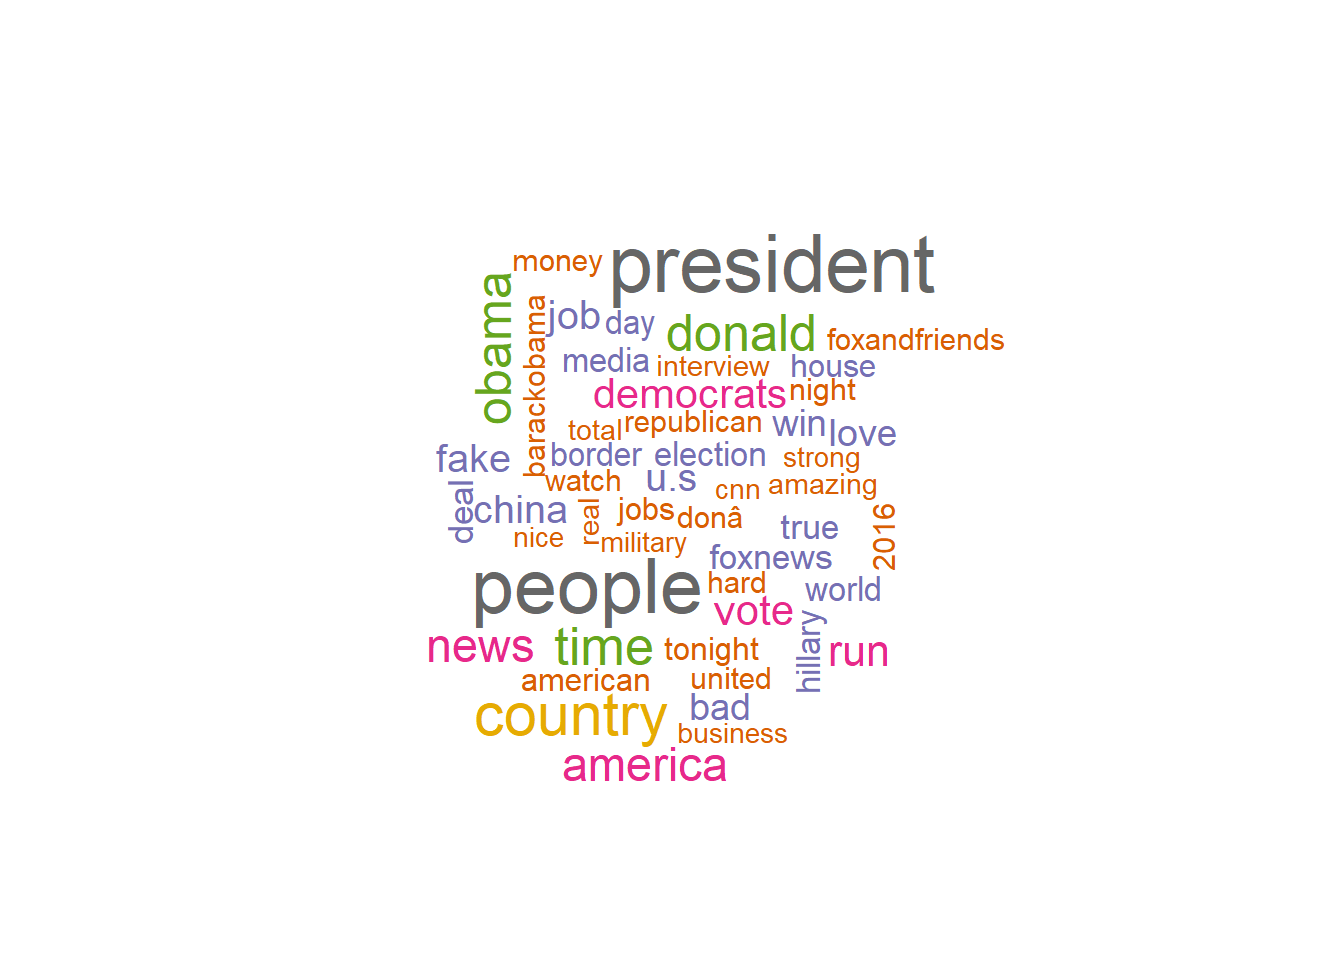
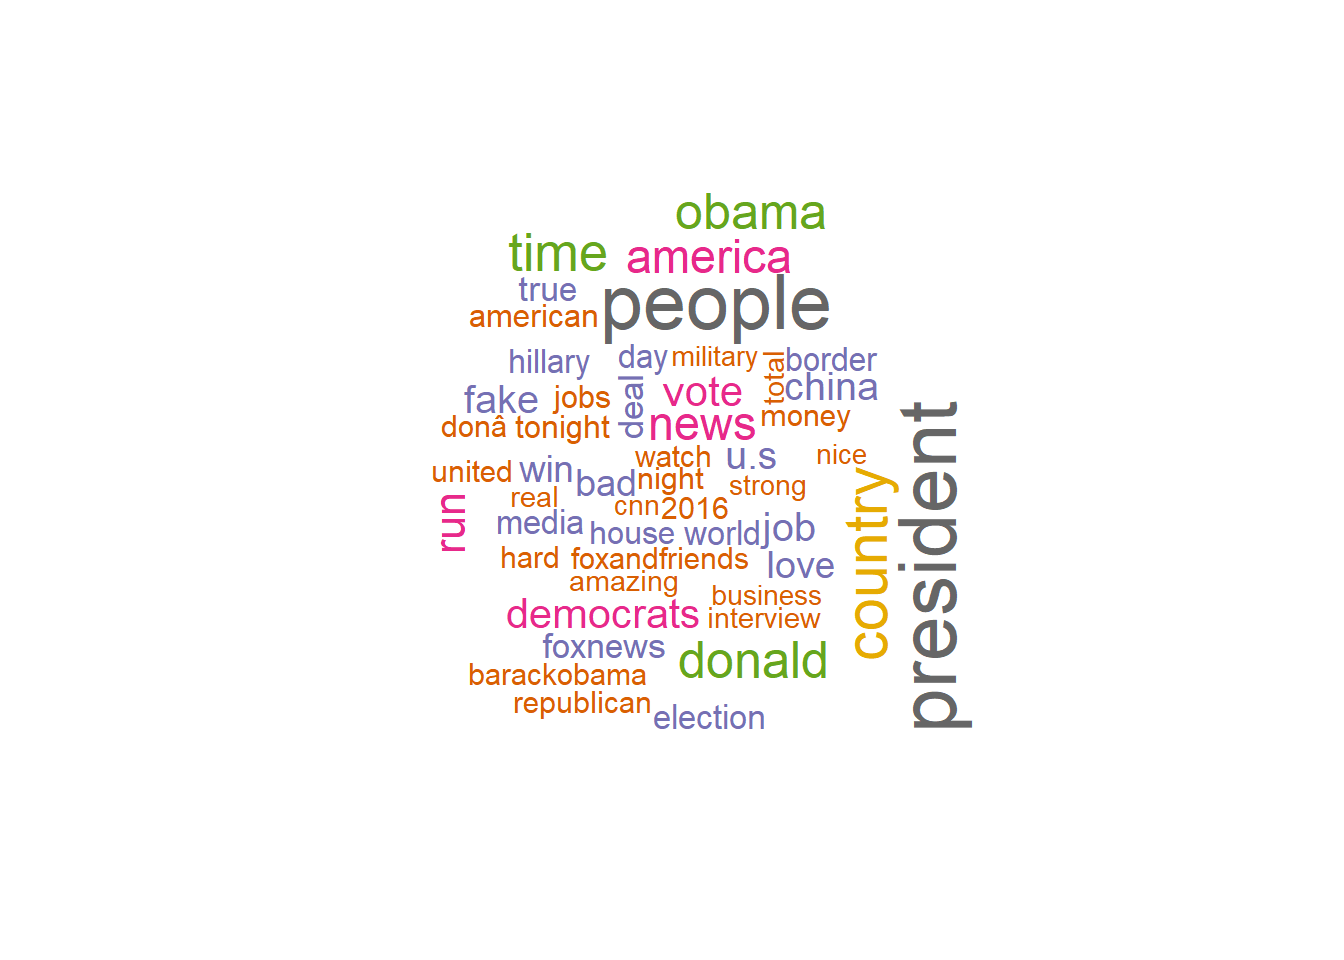
Sentiment changes.

Changed region(s): [[0.3125, 0.1875, 0.75, 0.8125]]

diff --git a/content/posts/2021-06-01-trump-s-sentiment-analysis/index.en.html b/content/posts/2021-06-01-trump-s-sentiment-analysis/index.en.html
@@ -51,7 +51,7 @@ wordcloud(words = words,
           scale=c(2.5,.5), #adjusts the scale of the wordcloud so that all words can fit in
           colors = brewer.pal(8, &quot;Dark2&quot;))</code></pre>
 <p><img src="{{< blogdown/postref >}}index.en_files/figure-html/unnamed-chunk-3-1.png" width="672" /></p>
-<pre class="r"><code>#Trump&#39;s words with joy sentiment last year
+<pre class="r"><code>#Trump&#39;s words with positive sentiment last year
 lastyear &lt;- tidy_trump[grepl(&quot;2020&quot;, tidy_trump$date),]
 nrc_joy &lt;- get_sentiments(&quot;nrc&quot;) %&gt;% 
   filter(sentiment == &quot;positive&quot;)
@@ -80,7 +80,7 @@ lastyear %&gt;%
 ## 18     protect  41
 ## 19      ballot  39
 ## 20       guard  38</code></pre>
-<pre class="r"><code>#Trump&#39;s words with joy sentiment last year
+<pre class="r"><code>#Trump&#39;s words with negative sentiment last year
 lastyear &lt;- tidy_trump[grepl(&quot;2020&quot;, tidy_trump$date),]
 nrc_joy &lt;- get_sentiments(&quot;nrc&quot;) %&gt;% 
   filter(sentiment == &quot;negative&quot;)
